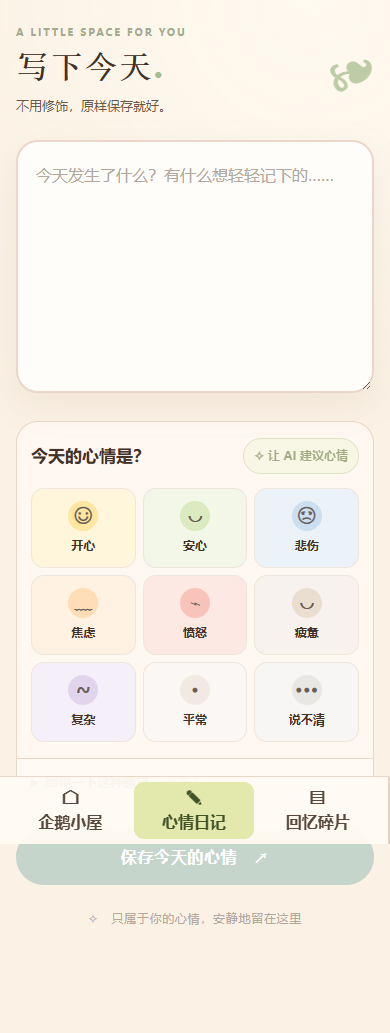
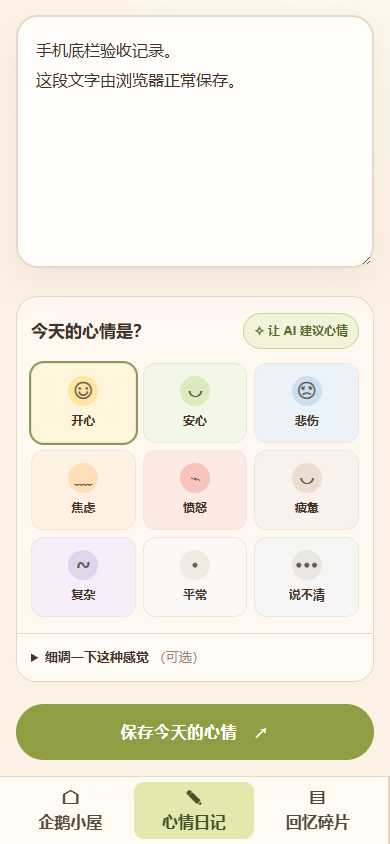
fix(ui): keep mobile actions above navigation

diff --git a/src/app/globals.css b/src/app/globals.css
@@ -132,3 +132,10 @@ body { background:radial-gradient(circle at 80% 0,#fffaf0 0,transparent 38%),var
 .scene-character { width:19%; }
 .emotion-heading { margin-bottom:0; padding-bottom:14px; }
 @media (max-width:700px) { .scene-character { width:19%; } }
+
+/* Keep the fixed mobile navigation and the scrollable content in the same safe area. */
+@media (max-width:700px) {
+  html { --mobile-nav-height:calc(68px + env(safe-area-inset-bottom, 0px)); scroll-padding-bottom:calc(var(--mobile-nav-height) + 16px); }
+  .app-shell { padding-bottom:calc(var(--mobile-nav-height) + 24px); }
+  .sidebar { height:var(--mobile-nav-height); padding-bottom:calc(5px + env(safe-area-inset-bottom, 0px)); }
+}

diff --git a/docs/STAGE7_TASK_CARD.md b/docs/STAGE7_TASK_CARD.md
@@ -111,3 +111,12 @@
 - 最小验收：场景路径和打断的确定性检查、行为/反馈回归、三页桌面及移动浏览器主流程和六张真实截图；正式 UI 待用户视觉验收。
 
 整改验证：已补充五区域安全路径、独立 SVG 前景和窄屏跟随镜头，并在隔离开发预览中检查互动、反馈、特殊动作、重逢和低动态打断；六张真实生产页面截图位于 `docs/assets/pr38-review/`。正式 UI 待用户视觉验收。
+
+### PR #38 手机底栏遮挡专项任务卡
+
+- 归属：全局页面壳层的移动端布局；输入为现有导航与各页面内容，输出为不被固定导航遮挡的滚动安全区。
+- 契约与配置：不改变领域契约、存档或业务规则；底栏尺寸与安全间距为可调整的视觉参数。
+- 不做：隐藏导航、缩小保存按钮或改动日记和角色行为。
+- 验收：在 390×844、375×667、360×740 检查保存、成功提示和三页底部操作的可见与可点击性，执行必要静态检查及截图。
+
+手机底栏专项验证：390×844、375×667、360×740 的 Chrome 页面中，滚动定位后的保存按钮、成功入口、小屋互动、重逢跳过和回忆编辑/纠正操作均位于导航上方并可点击；三页无横向溢出。重逢通过隔离浏览器跨日时间模拟触发。截图位于 `docs/assets/pr38-review/*-visible.png` 和 `diary-mobile-save-success.png`；设备非零安全区仍待实体设备验收。
